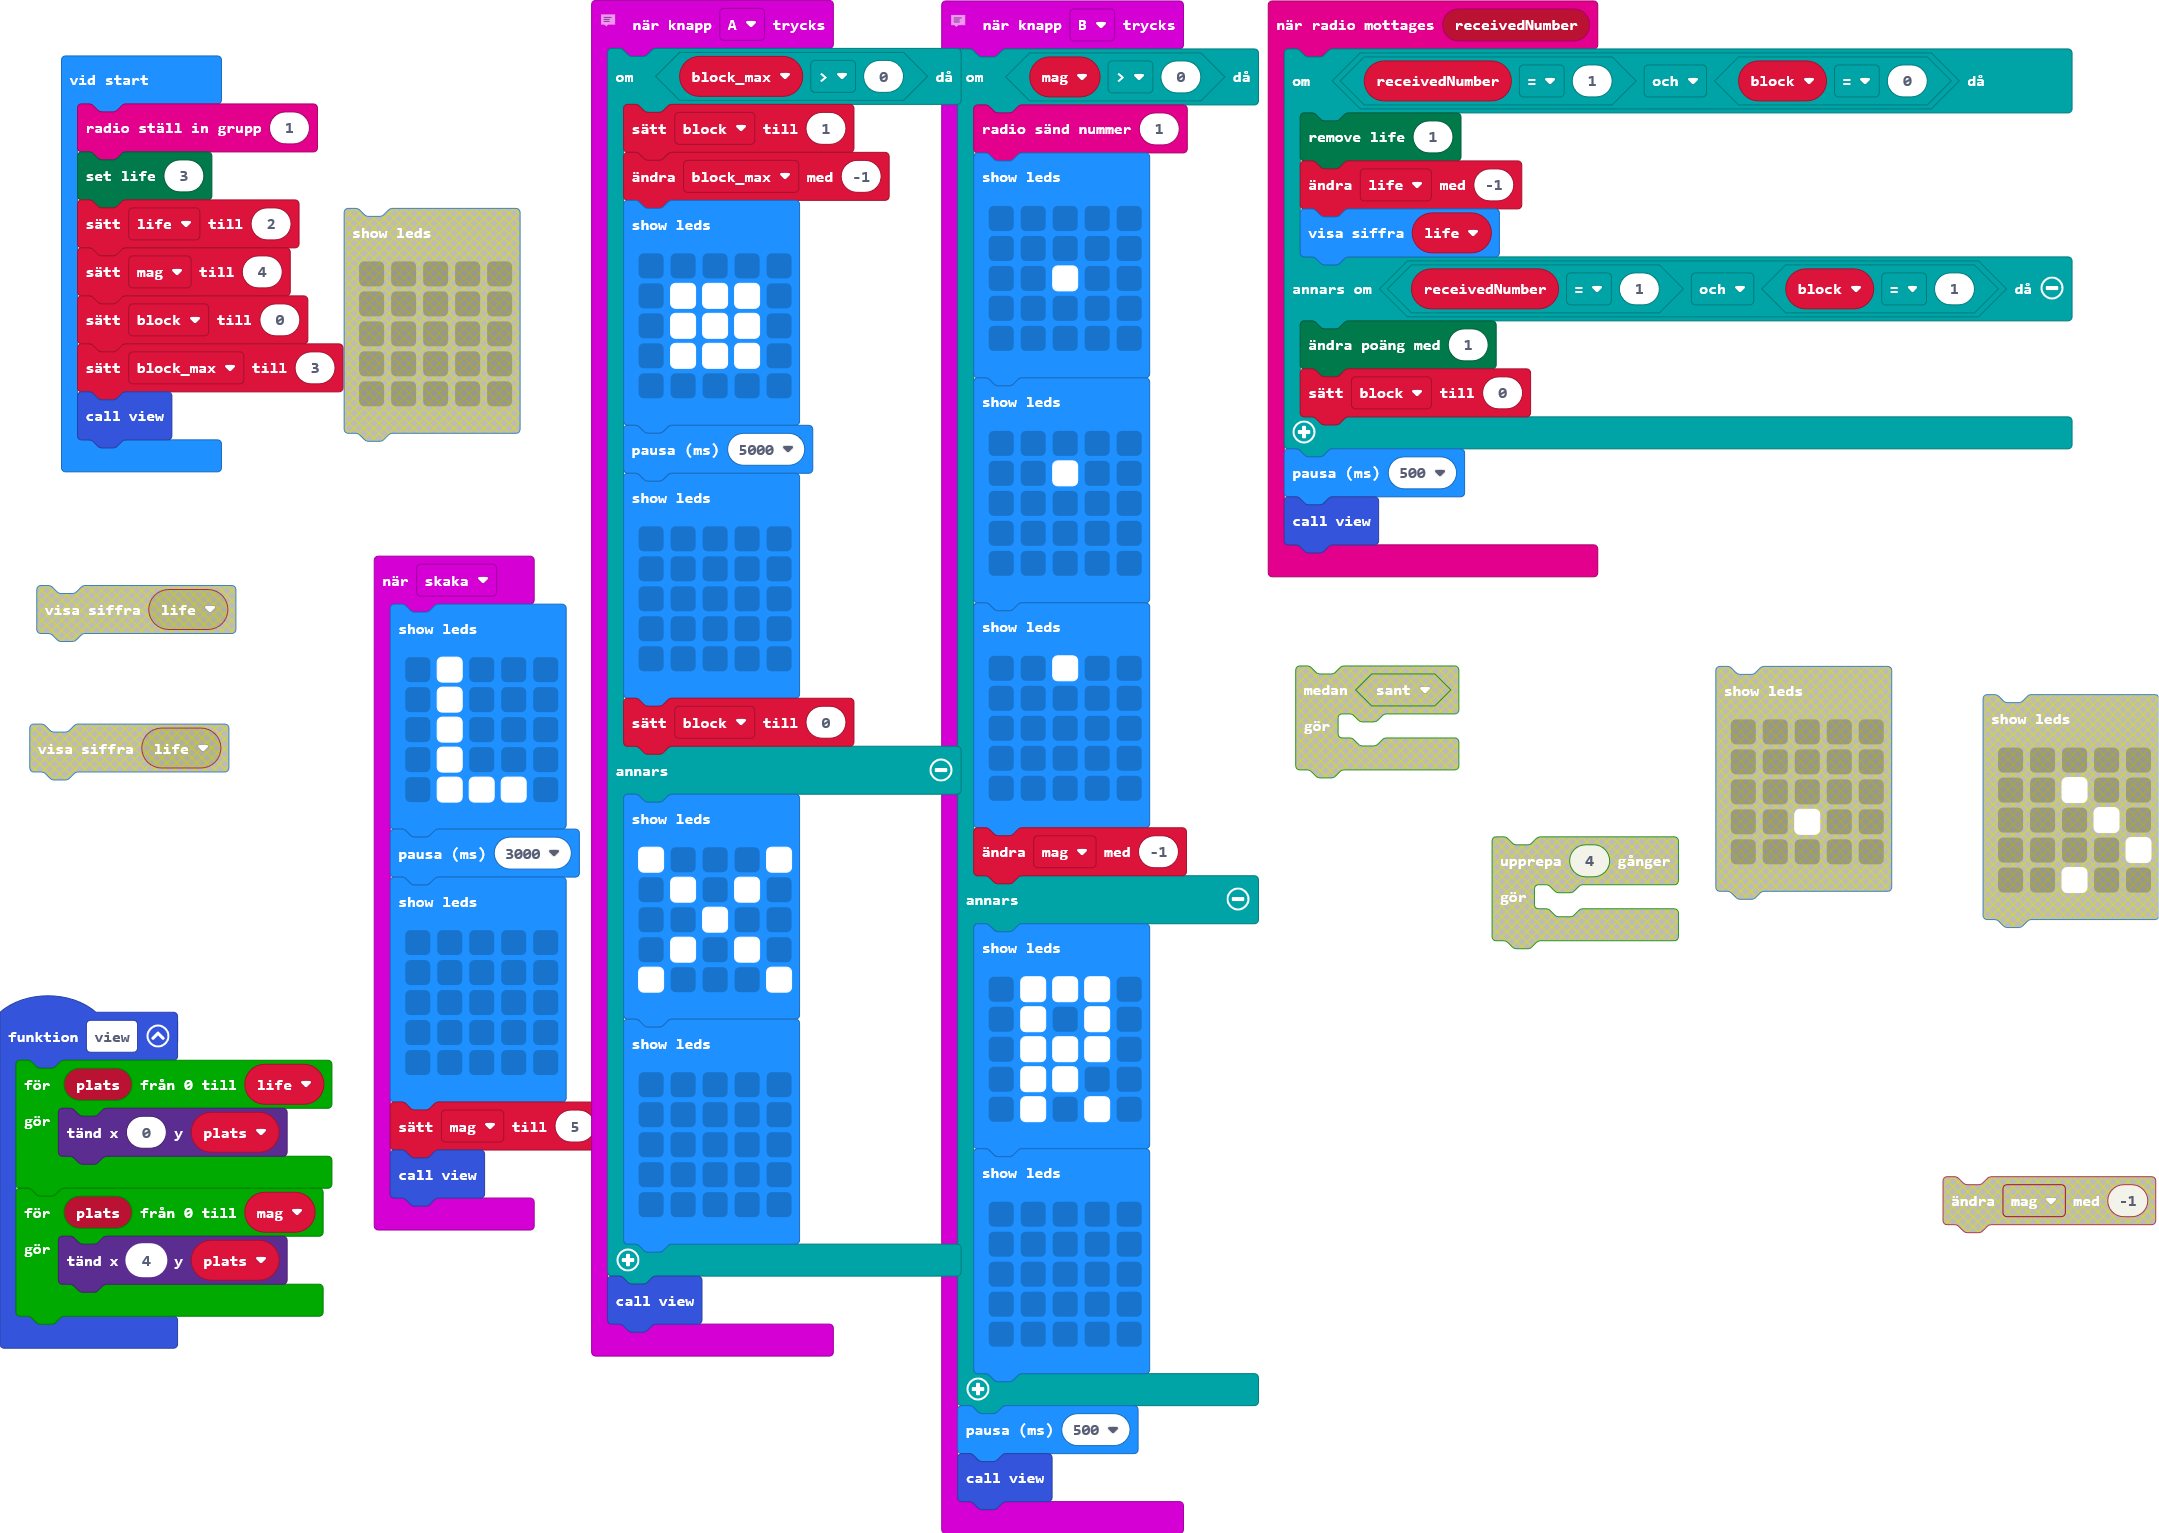
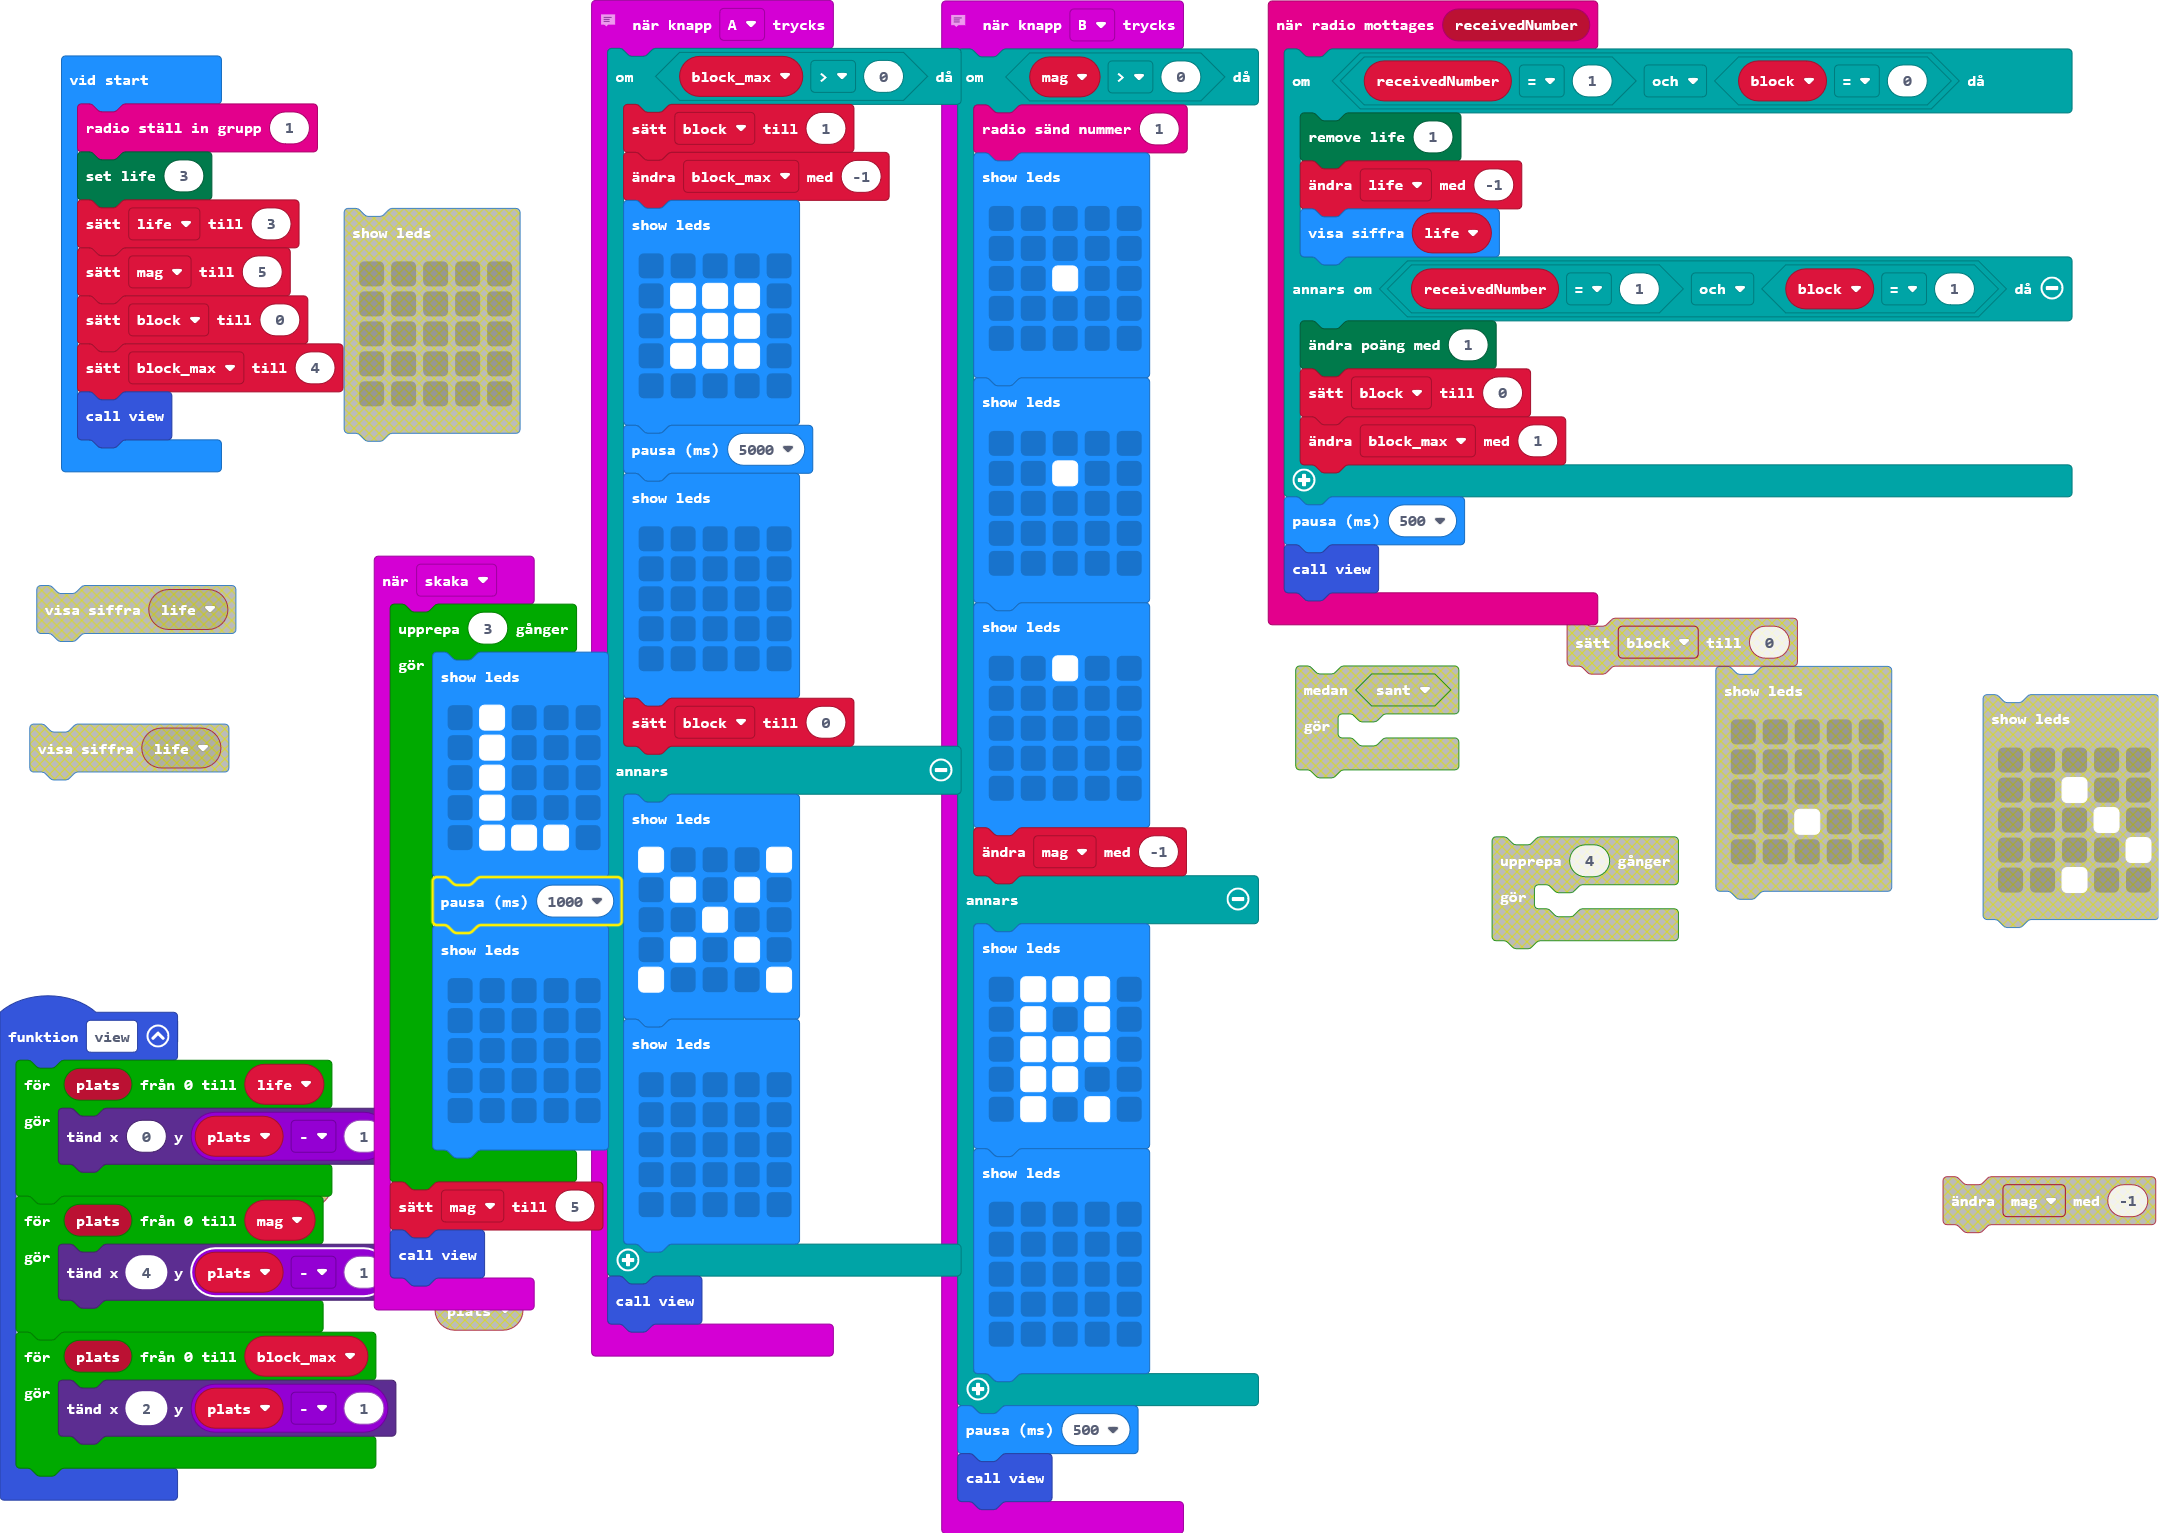
blocking

Changed region(s): [[0.0, 0.3679, 0.3103, 0.9811], [0.5896, 0.2453, 0.962, 0.4599]]

diff --git a/main.ts b/main.ts
@@ -6,6 +6,7 @@ radio.onReceivedNumber(function (receivedNumber) {
     } else if (receivedNumber == 1 && block == 1) {
         game.addScore(1)
         block = 0
+        block_max += 1
     }
     basic.pause(500)
     view()
@@ -50,21 +51,23 @@ input.onButtonPressed(Button.A, function () {
     view()
 })
 input.onGesture(Gesture.Shake, function () {
-    basic.showLeds(`
-        . # . . .
-        . # . . .
-        . # . . .
-        . # . . .
-        . # # # .
-        `)
-    basic.pause(3000)
-    basic.showLeds(`
-        . . . . .
-        . . . . .
-        . . . . .
-        . . . . .
-        . . . . .
-        `)
+    for (let index = 0; index < 3; index++) {
+        basic.showLeds(`
+            . # . . .
+            . # . . .
+            . # . . .
+            . # . . .
+            . # # # .
+            `)
+        basic.pause(1000)
+        basic.showLeds(`
+            . . . . .
+            . . . . .
+            . . . . .
+            . . . . .
+            . . . . .
+            `)
+    }
     mag = 5
     view()
 })
@@ -115,10 +118,13 @@ input.onButtonPressed(Button.B, function () {
 })
 function view () {
     for (let plats = 0; plats <= life; plats++) {
-        led.plot(0, plats)
+        led.plot(0, plats - 1)
     }
     for (let plats = 0; plats <= mag; plats++) {
-        led.plot(4, plats)
+        led.plot(4, plats - 1)
+    }
+    for (let plats = 0; plats <= block_max; plats++) {
+        led.plot(2, plats - 1)
     }
 }
 let block_max = 0
@@ -127,8 +133,8 @@ let mag = 0
 let life = 0
 radio.setGroup(1)
 game.setLife(3)
-life = 2
-mag = 4
+life = 3
+mag = 5
 block = 0
-block_max = 3
+block_max = 4
 view()
